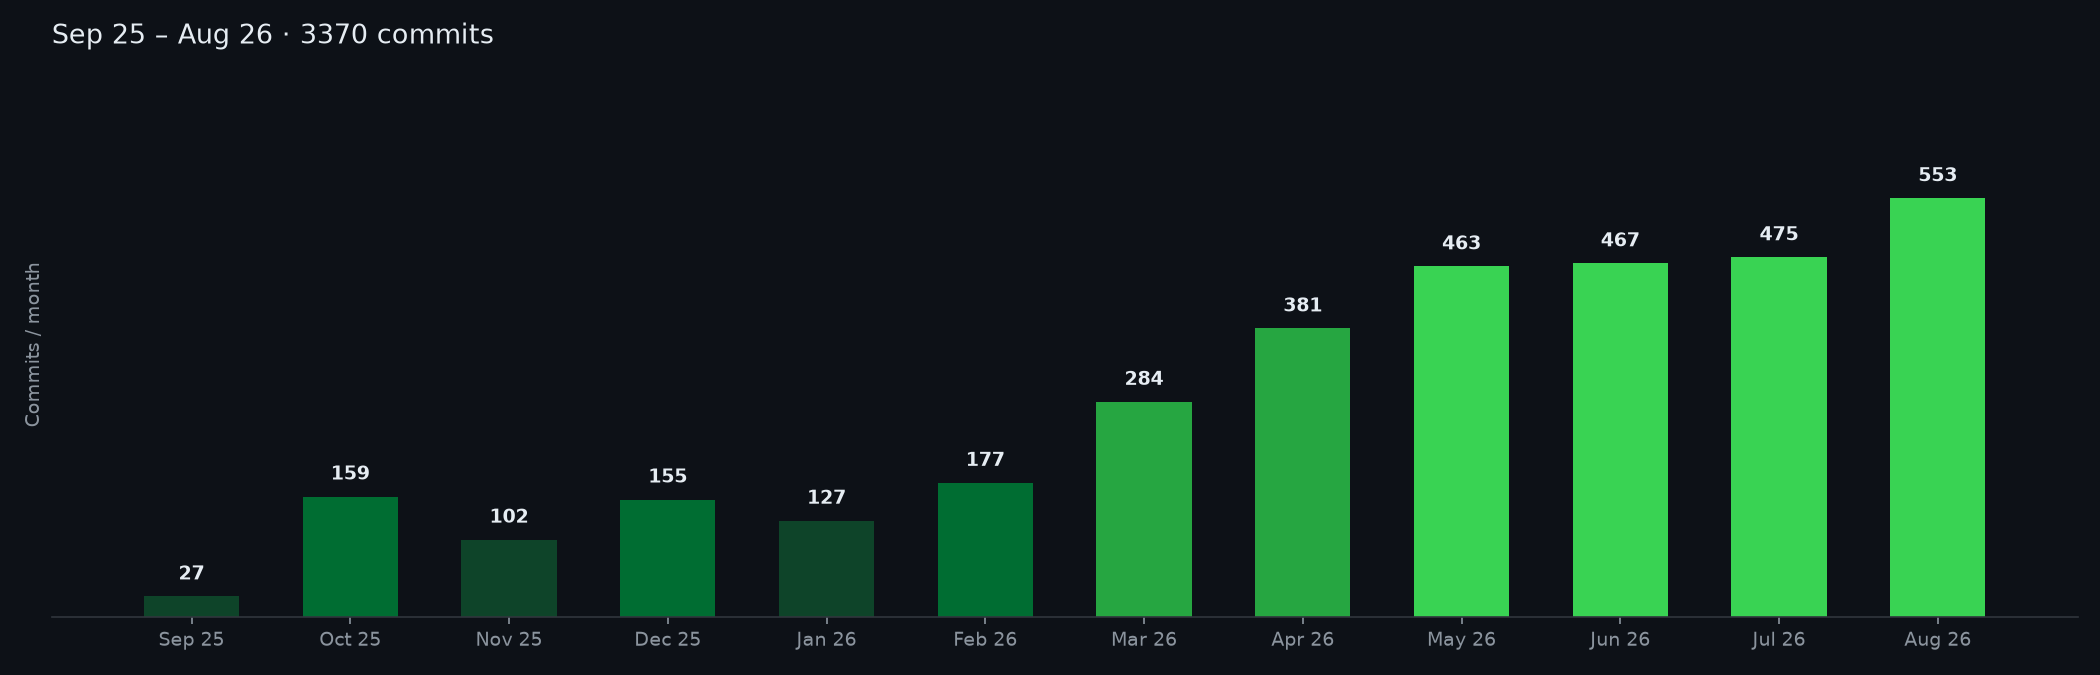
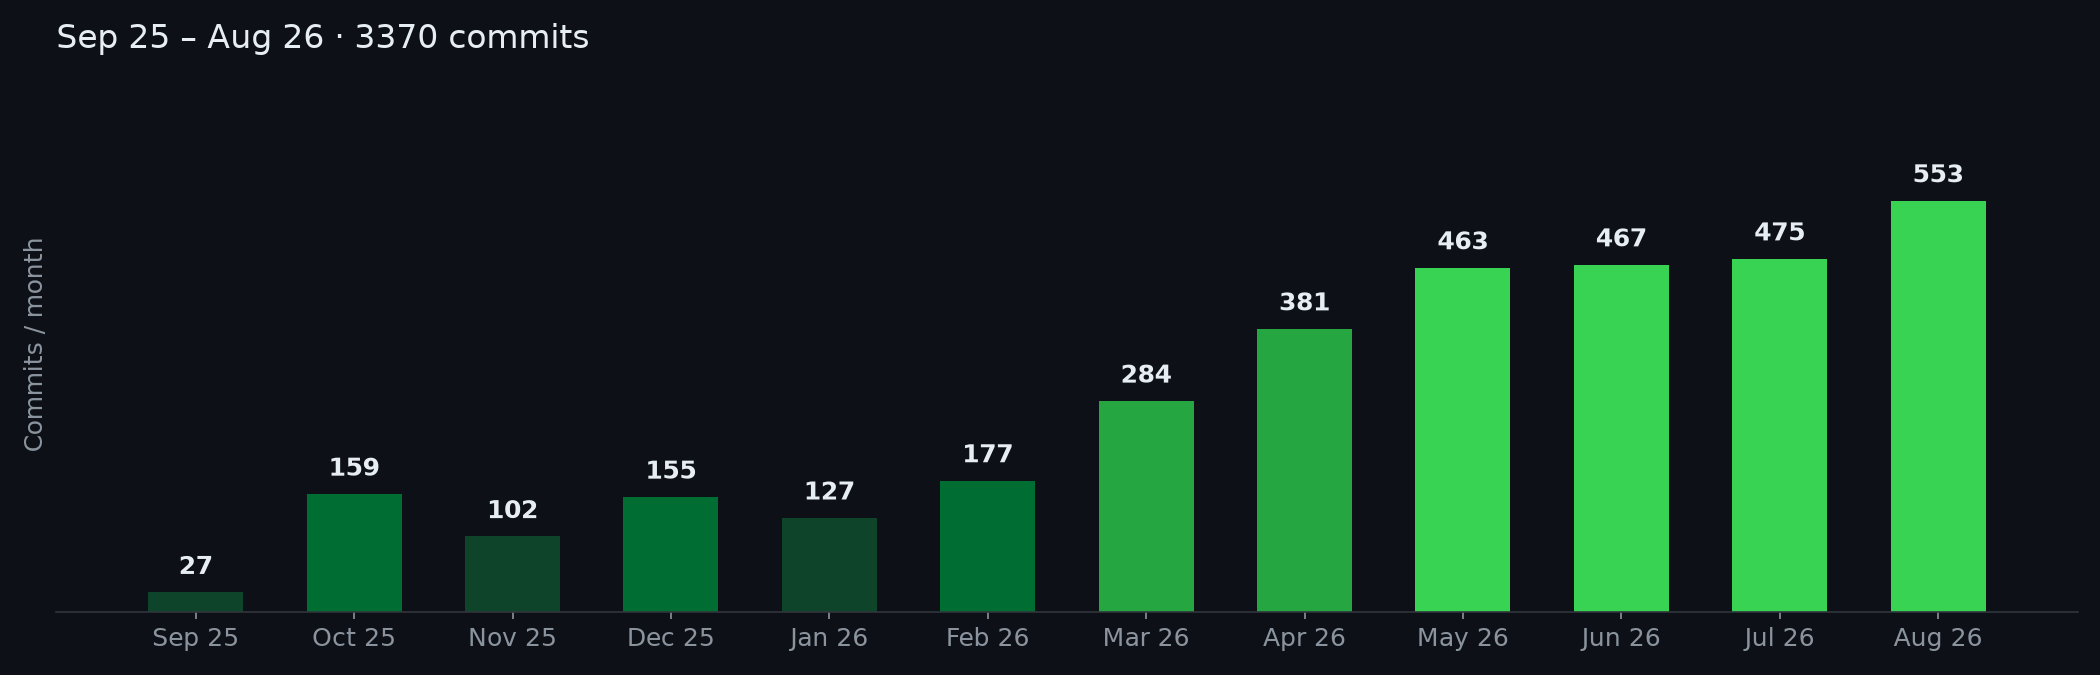
fix: bump desktop activity chart font sizes by ~3pt
Original 9/13pt sizing read as too small even at normal width, not
just narrow ones.

diff --git a/.github/scripts/generate_monthly_chart.py b/.github/scripts/generate_monthly_chart.py
@@ -69,15 +69,15 @@ def draw_row(ax, m_slice, v_slice, l_slice, value_fontsize, tick_labelsize, bar_
     ax.set_yticks([])
 
 
-# --- Desktop: single row, all months, compact — this is how the chart
-# reads fine already on a normal-width screen, so it's left basically as
-# it originally was (same figure size and font sizes as the first version
-# of this script), just with the current-month exclusion and the
-# consistent title kept from later fixes.
+# --- Desktop: single row, all months, compact — same layout as the
+# original version of this script, just with the current-month
+# exclusion and consistent title kept from later fixes, and fonts a
+# few points larger across the board (the original 9/13pt sizing read
+# as too small even at normal width).
 fig, ax = plt.subplots(figsize=(14, 4.5), facecolor="#0d1117")
-draw_row(ax, months, values, labels, value_fontsize=9, tick_labelsize=9, bar_width=0.6)
-ax.set_title(f"{range_label} · {total} commits", color="#e6edf3", fontsize=13, pad=14, loc="left")
-ax.set_ylabel("Commits / month", color="#8b949e", fontsize=9)
+draw_row(ax, months, values, labels, value_fontsize=12, tick_labelsize=12, bar_width=0.6)
+ax.set_title(f"{range_label} · {total} commits", color="#e6edf3", fontsize=16, pad=14, loc="left")
+ax.set_ylabel("Commits / month", color="#8b949e", fontsize=12)
 plt.tight_layout()
 plt.savefig(DESKTOP_PATH, dpi=150, facecolor=fig.get_facecolor())
 plt.close(fig)
